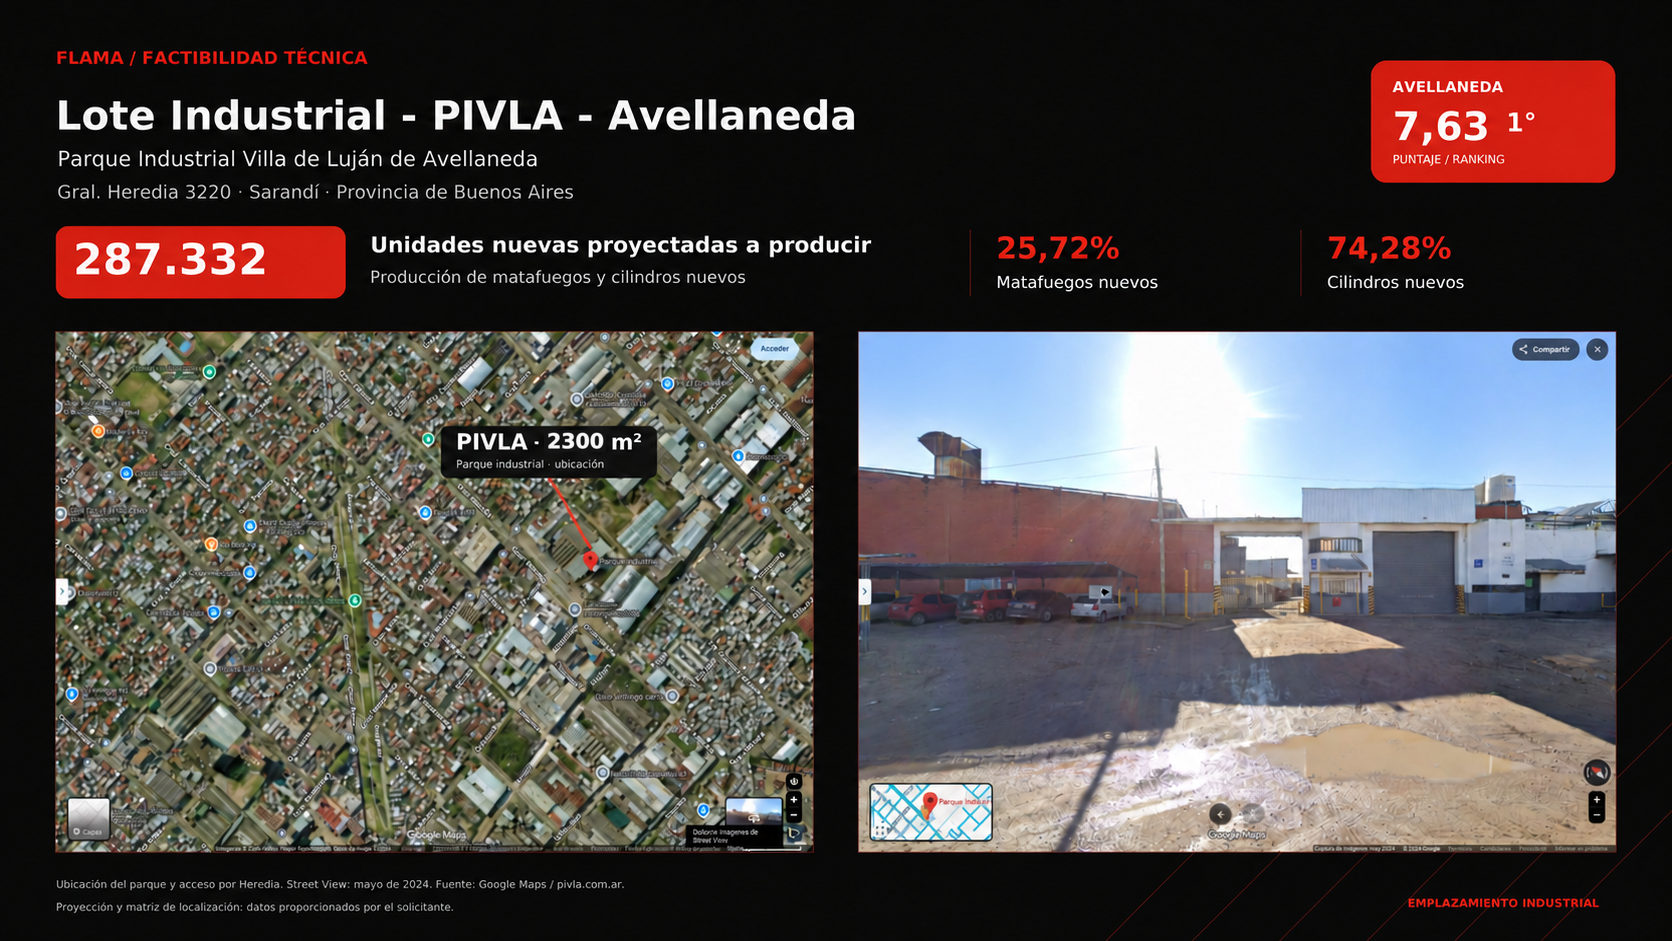
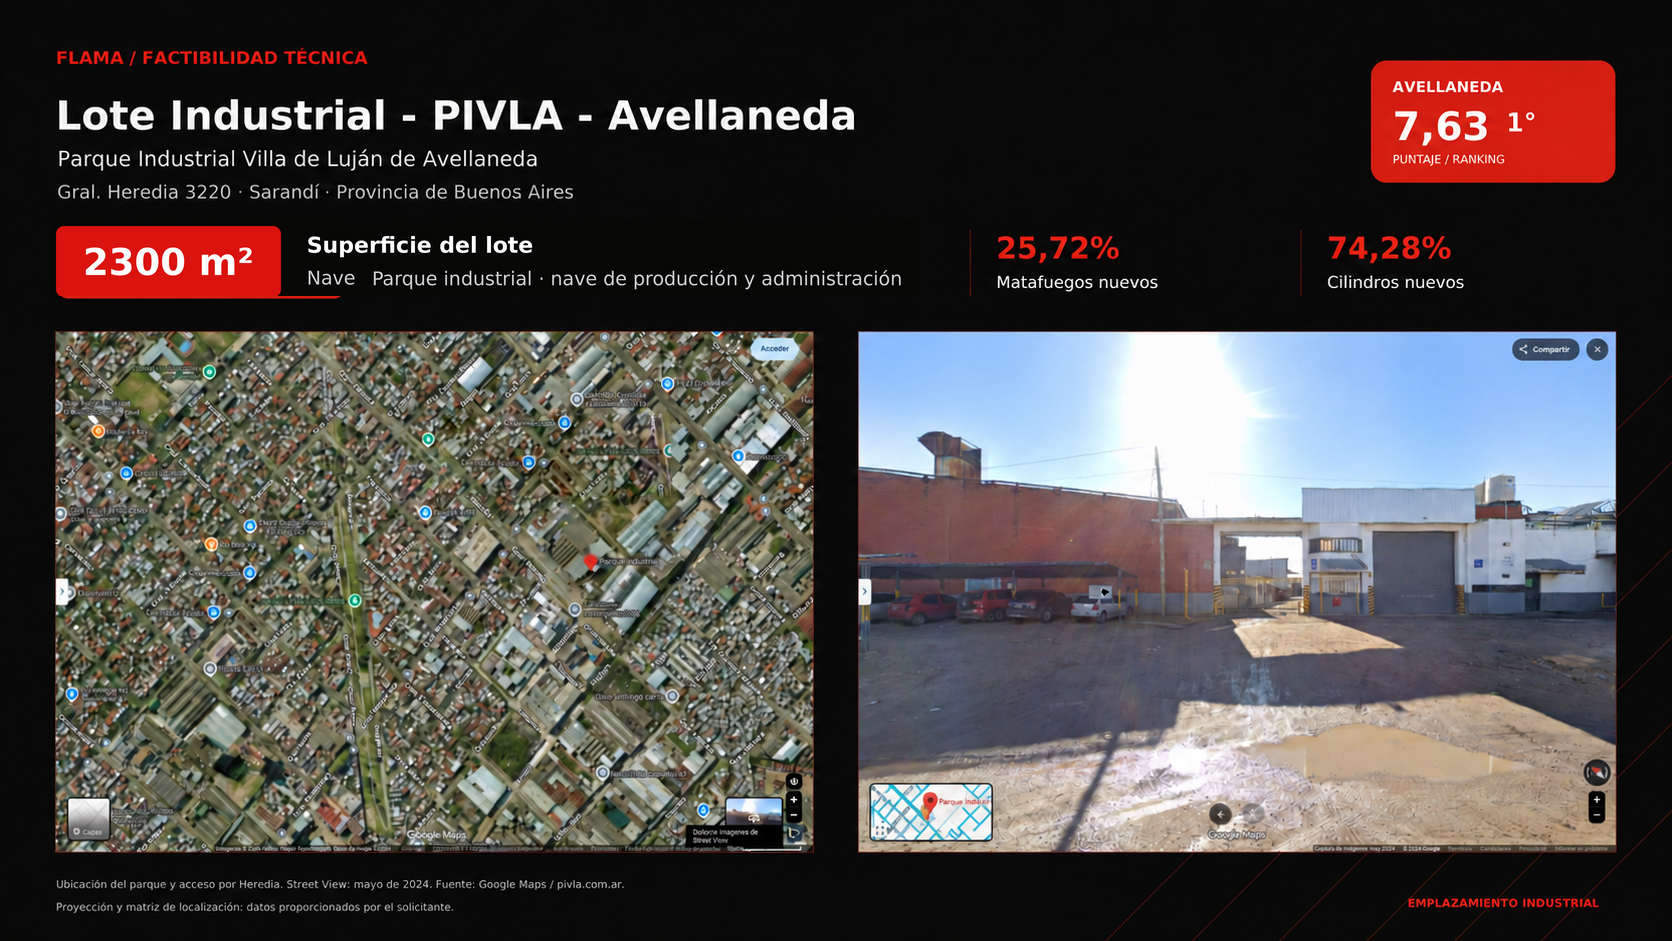
Localización: solo superficie del lote (sin 600 duplicados ni unidades); sale la slide de RSE
Claude-Session: https://claude.ai/code/session_01WGWKVbAbFFR3NzcMZs2ihk

Changed region(s): [[0.0311, 0.2157, 0.5287, 0.339], [0.2488, 0.4315, 0.4043, 0.5547]]

diff --git a/index.html b/index.html
@@ -358,8 +358,8 @@ svg.explore .part:not(.sel){opacity:.35}
 
 
 
-<section class="frame catimg" id="f-l1" data-x="120" data-y="4320"><img src="img/loc_comercial.png?v=3830265a" alt="Lote comercial · Villa Ortúzar · Noreste CABA"></section>
-<section class="frame catimg" id="f-l2" data-x="2240" data-y="4320"><img src="img/loc_industrial.png?v=3eea8445" alt="Lote industrial · PIVLA · Avellaneda"></section>
+<section class="frame catimg" id="f-l1" data-x="120" data-y="4320"><img src="img/loc_comercial.png?v=8d6d6362" alt="Lote comercial · Villa Ortúzar · Noreste CABA"></section>
+<section class="frame catimg" id="f-l2" data-x="2240" data-y="4320"><img src="img/loc_industrial.png?v=972ce7c9" alt="Lote industrial · PIVLA · Avellaneda"></section>
 
 <!-- 6 PLANO -->
 <section class="frame catimg" id="f-plano" data-x="120" data-y="5740"><div class="catbox planbox" id="planimg"><img src="img/plano_cad.png?v=69f115de" alt="Plano de la planta comercial de recargas, rev 24"><div class="dim" id="dim"></div><svg id="comsvg" viewBox="0 0 3700 4530" preserveAspectRatio="none"></svg></div></section>
@@ -920,7 +920,7 @@ GRUPOS.forEach((g,i)=>{const b=imgBox(document.getElementById("f-plano"),PLAN_IM
   const pad=g.key==="todo"?0:.08;const rect={x:b.x+(x-w*pad)*b.s,y:b.y+(y-h*pad)*b.s,w:w*(1+2*pad)*b.s,h:h*(1+2*pad)*b.s};
   add(g.key==="todo"?plano:rect,{enter:()=>{setZone(g.key==="todo"?null:g.key);tourHide();hideRoutes(COM);}});});
 addTour(COM,COM.rect([-0.5,4.0,16.9,25.6],0,0,.03));
-add(F("f-rse"));add(F("f-fin"));
+add(F("f-fin"));  /* RSE fuera de la secuencia (pedido 30/10) */
 add(F("f-c2"),{cap:"<b>ABC 10 kg · catálogo</b>Conjuntos y componentes del matafuego portátil de 10 kg con manguera; rotulado e identificación (etiqueta, oblea DPS/PBA, estampilla IRAM, serie GS1, tarjeta AGC y marbete)."});
 [
  {r:[565,245,260,495],cap:"<b>Zoom 1 · Recipiente + caño de pesca</b>01 cuerpo (virola) · 02 cúpula en chapa LAF 1,6 mm · 03 fondo 2,0 mm · 04 cuello roscado M30 × 1,5 · 15 caño de pesca de PVC rígido. Recipiente de 12,5 L, 5,43 kg, 1 costura longitudinal + 2 transversales MAG, ensayo hidráulico 3,5 MPa."},
